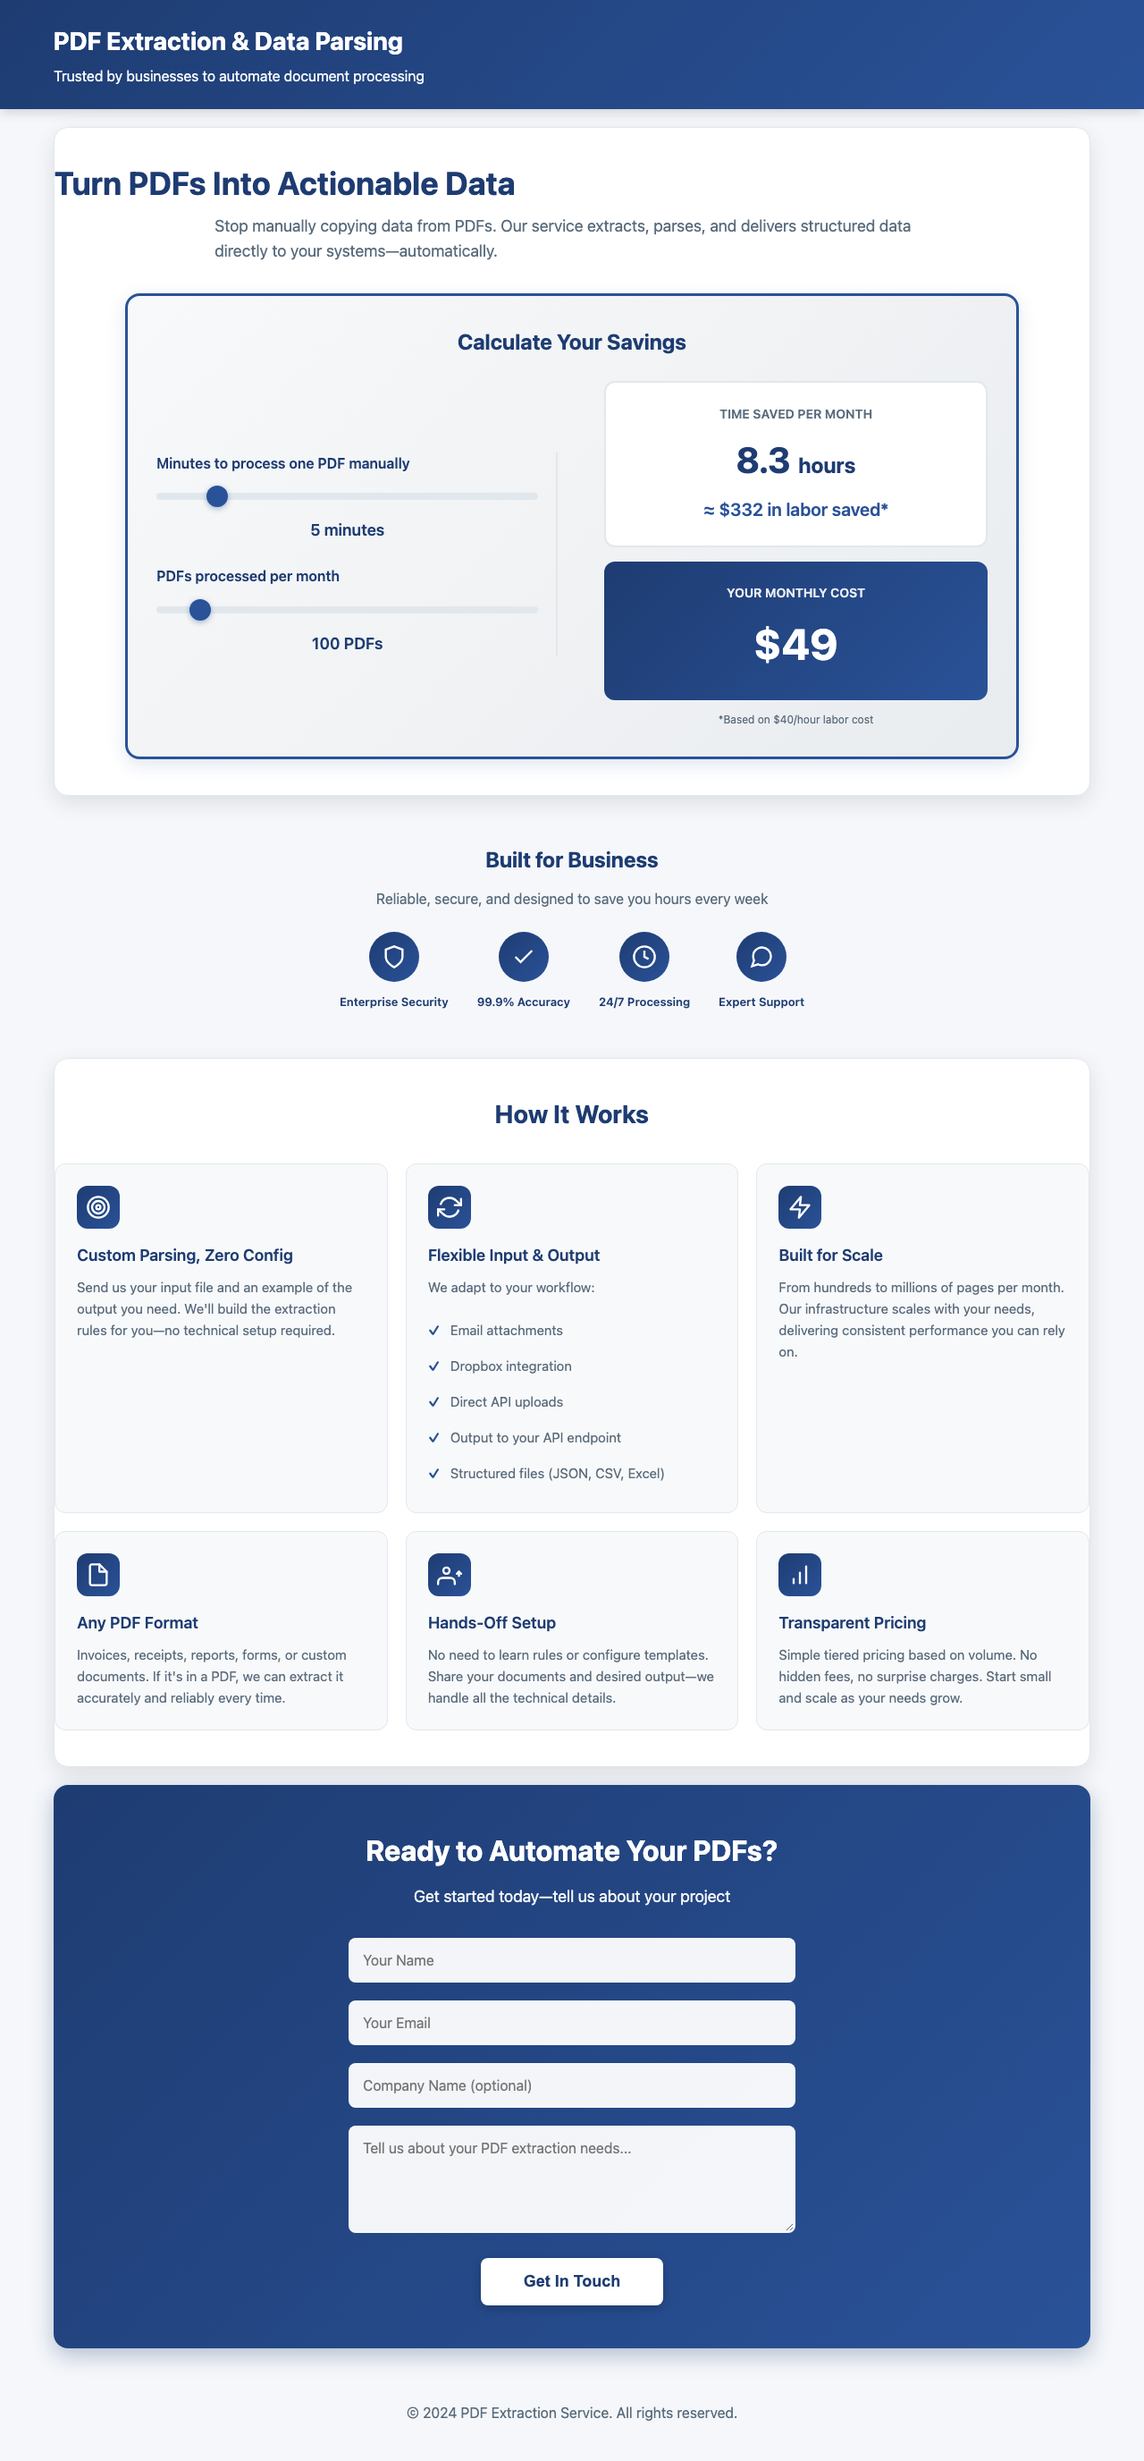
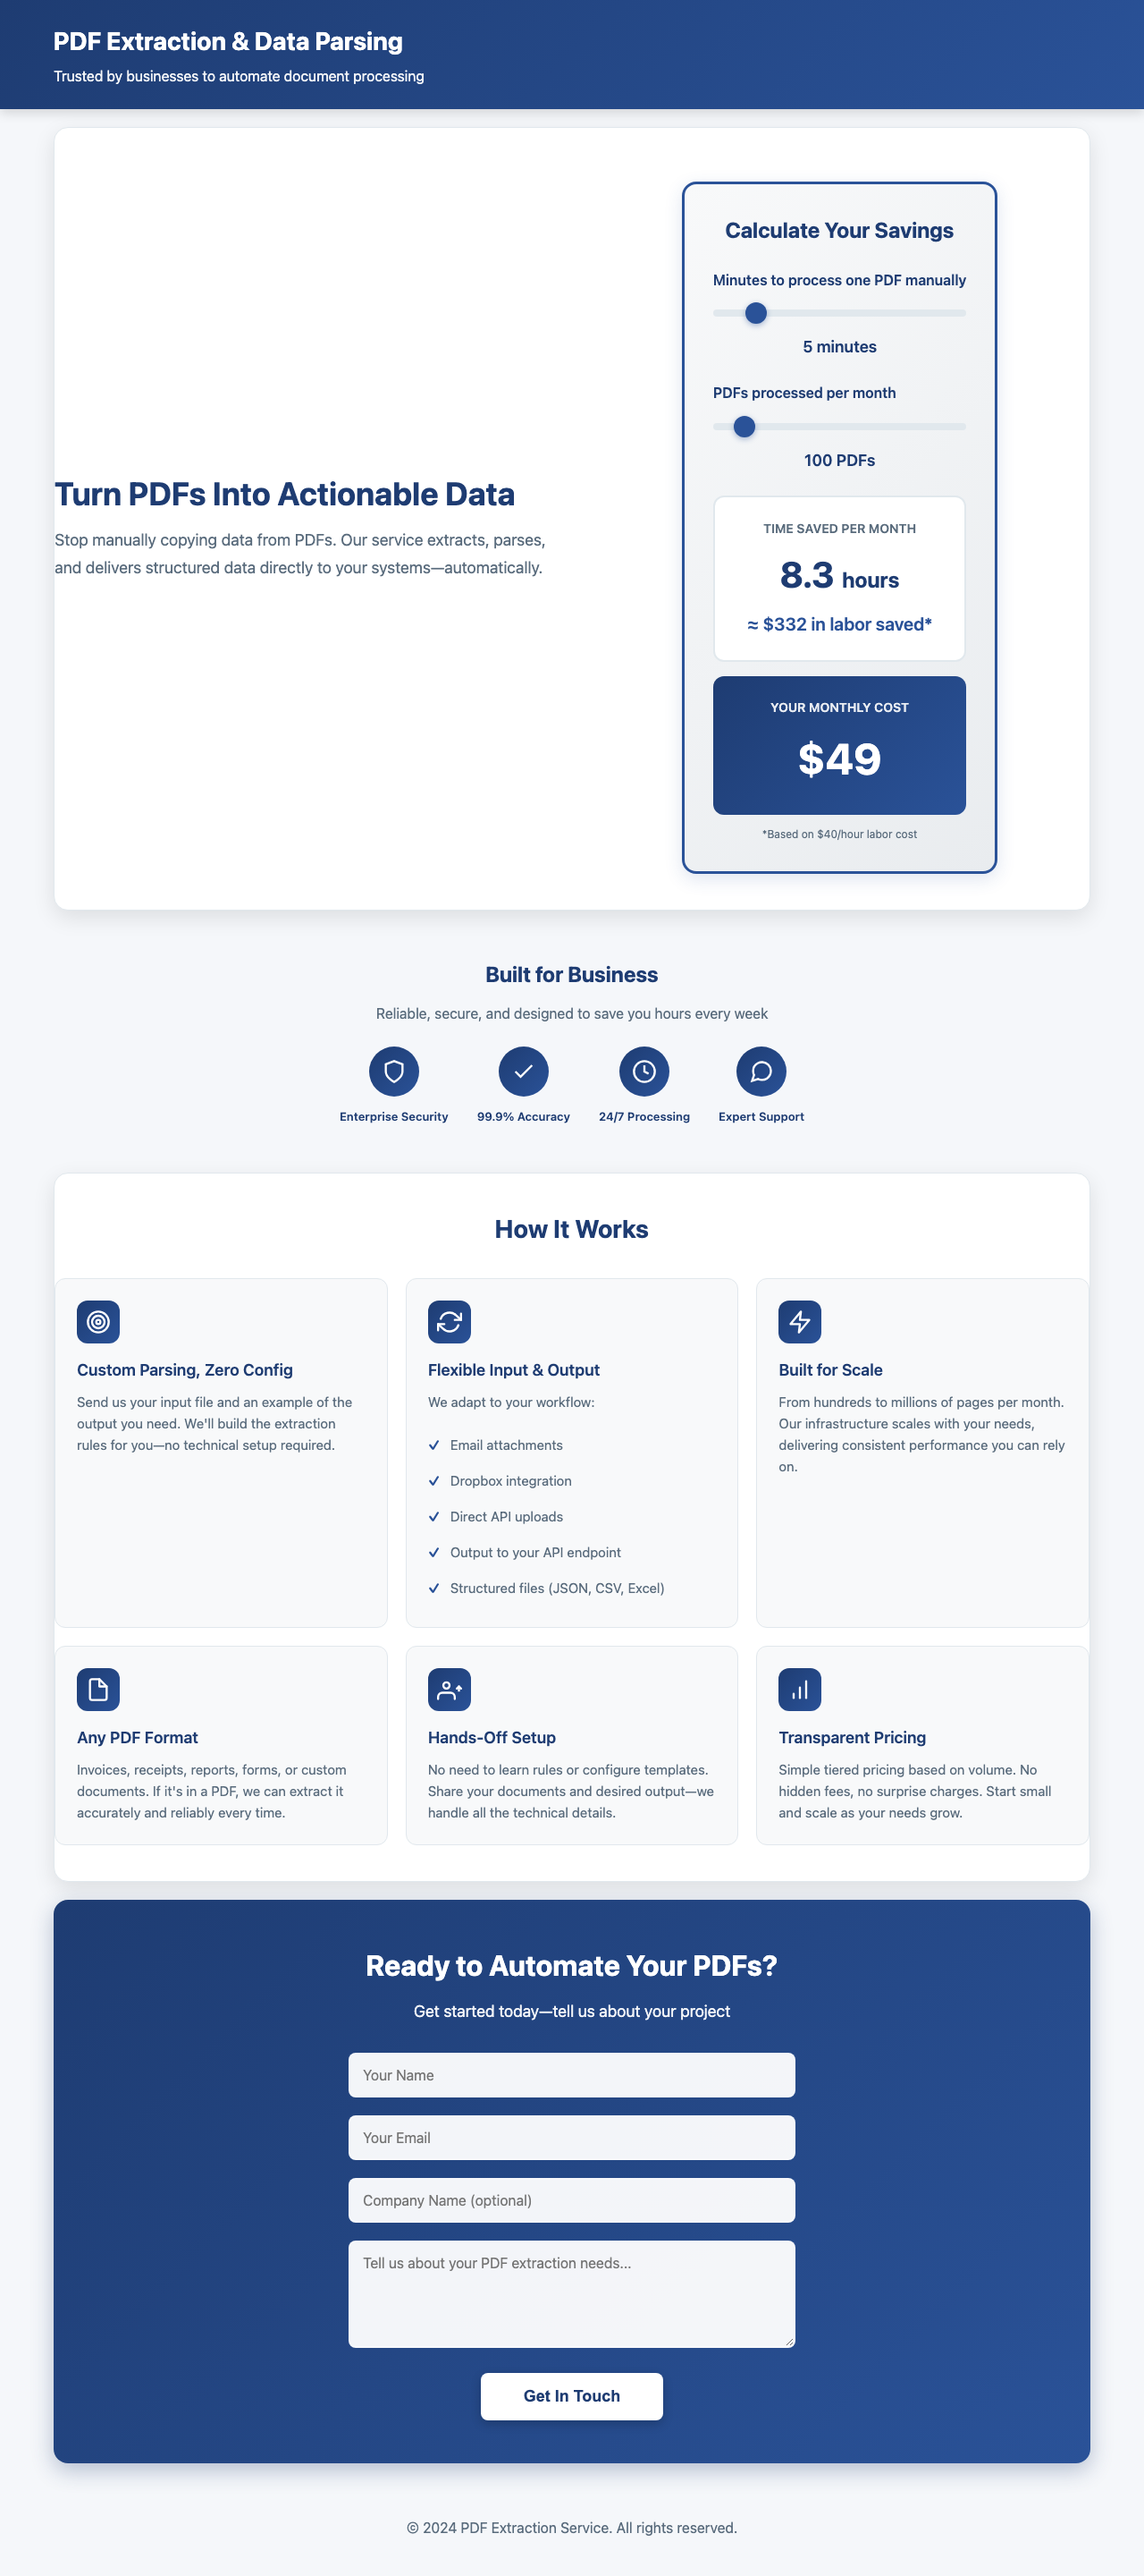
Move pricing to left column, keep only savings calculator on right
- Left: Text + 3 pricing tiers (Starter/Business/Enterprise)
- Right: Savings calculator (time/labor saved only)
- Removed dynamic service cost calculation
- Static pricing display

diff --git a/index.html b/index.html
@@ -407,7 +407,39 @@
             <div class="hero-content">
                 <div class="hero-left">
                     <h2>Turn PDFs Into Actionable Data</h2>
-                    <p>Stop manually copying data from PDFs. Our service extracts, parses, and delivers structured data directly to your systems—automatically.</p>
+                    <p style="margin-bottom: 24px;">Stop manually copying data from PDFs. Our service extracts, parses, and delivers structured data directly to your systems—automatically.</p>
+                    
+                    <h3 style="font-size: 20px; margin-bottom: 16px; color: #1e3c72; font-weight: 600;">Simple Pricing</h3>
+                    
+                    <div style="display: grid; gap: 12px;">
+                        <div style="background: white; padding: 16px 20px; border-radius: 8px; border: 2px solid #e1e8ed; display: flex; justify-content: space-between; align-items: center;">
+                            <div>
+                                <div style="font-weight: 600; color: #1e3c72; font-size: 16px;">Starter</div>
+                                <div style="font-size: 14px; color: #5a6c7d;">Up to 200 pages/month</div>
+                            </div>
+                            <div style="font-size: 28px; font-weight: 700; color: #2a5298;">$49</div>
+                        </div>
+                        
+                        <div style="background: white; padding: 16px 20px; border-radius: 8px; border: 2px solid #e1e8ed; display: flex; justify-content: space-between; align-items: center;">
+                            <div>
+                                <div style="font-weight: 600; color: #1e3c72; font-size: 16px;">Business</div>
+                                <div style="font-size: 14px; color: #5a6c7d;">Up to 1,000 pages/month</div>
+                            </div>
+                            <div style="font-size: 28px; font-weight: 700; color: #2a5298;">$149</div>
+                        </div>
+                        
+                        <div style="background: white; padding: 16px 20px; border-radius: 8px; border: 2px solid #e1e8ed; display: flex; justify-content: space-between; align-items: center;">
+                            <div>
+                                <div style="font-weight: 600; color: #1e3c72; font-size: 16px;">Enterprise</div>
+                                <div style="font-size: 14px; color: #5a6c7d;">Up to 5,000 pages/month</div>
+                            </div>
+                            <div style="font-size: 28px; font-weight: 700; color: #2a5298;">$399</div>
+                        </div>
+                    </div>
+                    
+                    <div style="text-align: center; color: #5a6c7d; font-size: 13px; margin-top: 12px;">
+                        Custom volumes over 5,000 pages at $0.05/page
+                    </div>
                 </div>
 
                 <div class="calculator">
@@ -429,7 +461,7 @@
                         </div>
                     </div>
 
-                    <div style="background: white; padding: 24px; border-radius: 12px; margin-bottom: 16px; border: 2px solid #e1e8ed;">
+                    <div style="background: white; padding: 24px; border-radius: 12px; border: 2px solid #e1e8ed;">
                         <div style="text-align: center; color: #5a6c7d; font-size: 14px; font-weight: 600; margin-bottom: 8px;">
                             TIME SAVED PER MONTH
                         </div>
@@ -439,19 +471,9 @@
                         <div style="text-align: center; color: #2a5298; font-size: 20px; font-weight: 600; margin-top: 8px;">
                             ≈ <span id="costSaved">$332</span> in labor saved*
                         </div>
-                    </div>
-
-                    <div style="background: linear-gradient(135deg, #1e3c72 0%, #2a5298 100%); padding: 24px; border-radius: 12px; color: white;">
-                        <div style="text-align: center; font-size: 14px; font-weight: 600; margin-bottom: 8px; opacity: 0.9;">
-                            YOUR MONTHLY COST
+                        <div style="text-align: center; color: #5a6c7d; font-size: 12px; margin-top: 12px;">
+                            *Based on $40/hour labor cost
                         </div>
-                        <div style="text-align: center; font-size: 48px; font-weight: 700;">
-                            $<span id="serviceCost">49</span>
-                        </div>
-                    </div>
-
-                    <div style="text-align: center; color: #5a6c7d; font-size: 12px; margin-top: 12px;">
-                        *Based on $40/hour labor cost
                     </div>
                 </div>
             </div>
@@ -616,7 +638,6 @@
         const pdfsDisplay = document.getElementById('pdfsDisplay');
         const hoursSavedDisplay = document.getElementById('hoursSaved');
         const costSavedDisplay = document.getElementById('costSaved');
-        const serviceCostDisplay = document.getElementById('serviceCost');
 
         function updateCalculations() {
             const minutes = parseInt(minutesSlider.value);
@@ -634,23 +655,6 @@
             // Calculate cost saved (assuming $40/hour labor)
             const laborCostSaved = Math.round(hours * 40);
             costSavedDisplay.textContent = `$${laborCostSaved}`;
-
-            // Calculate service cost based on volume
-            // Assuming average 2 pages per PDF for simplicity
-            const estimatedPages = pdfs * 2;
-            let serviceCost;
-
-            if (estimatedPages <= 200) {
-                serviceCost = 49;
-            } else if (estimatedPages <= 1000) {
-                serviceCost = 149;
-            } else if (estimatedPages <= 5000) {
-                serviceCost = 399;
-            } else {
-                serviceCost = Math.ceil(estimatedPages * 0.05);
-            }
-
-            serviceCostDisplay.textContent = serviceCost;
         }
 
         minutesSlider.addEventListener('input', updateCalculations);
